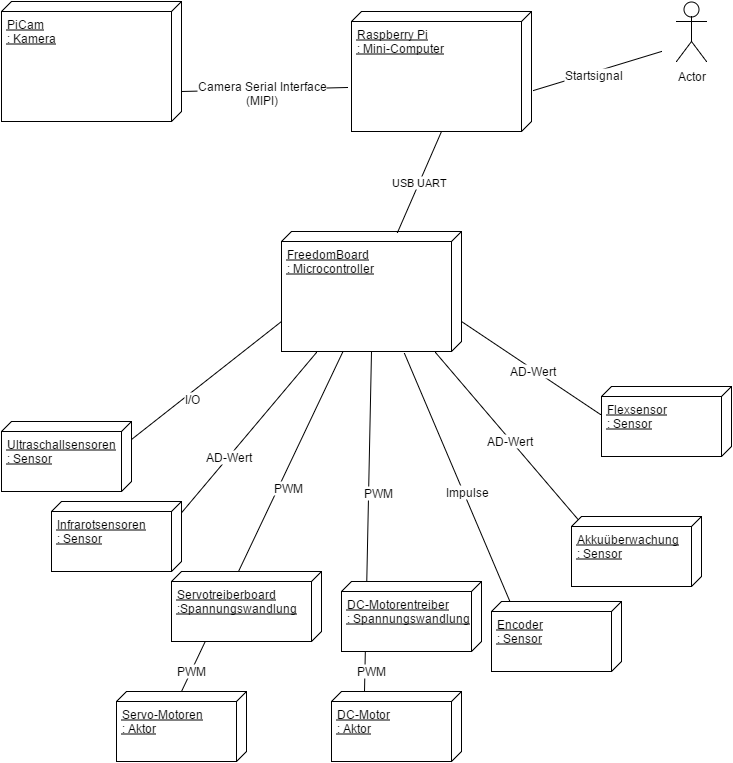
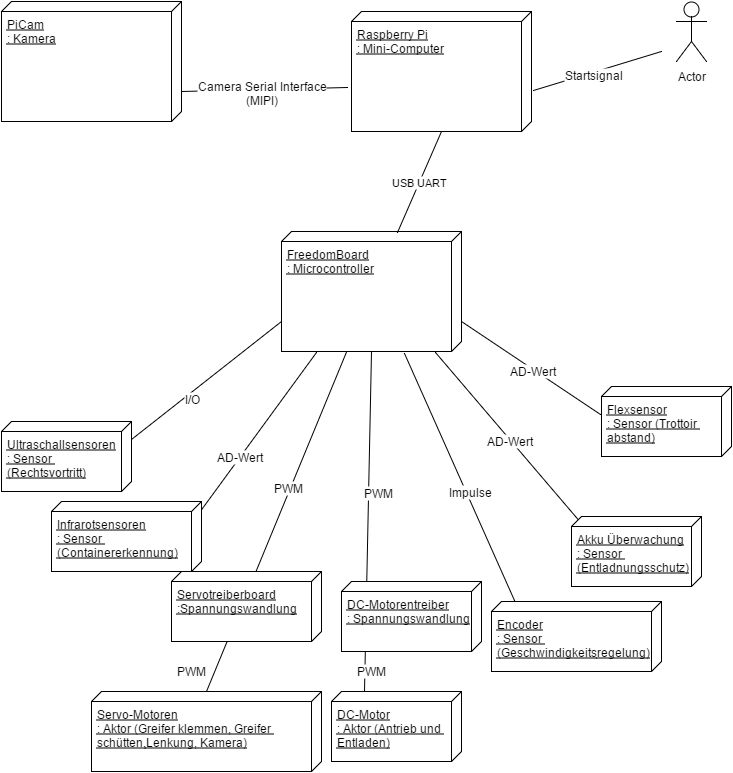
Motoränderung: Verteilungsdiagramm angepasst Satz verbessert regelung

diff --git a/documentation/GesamtDoku/03_Loesungskonzept/gesamtuebersicht.tex b/documentation/GesamtDoku/03_Loesungskonzept/gesamtuebersicht.tex
@@ -26,7 +26,7 @@ Damit das Fahrzeug mit einer konstanten Geschwindigkeit fahren kann, muss ein Re
 	\caption{Grober Antriebsregelkreis}
 \end{figure}\flushleft
 %In Abbildung \ref{Regelung_Gesch} 
-Hier ist der grobe Regelkreis des Antriebs zu sehen. Der Sollwert wird vom Minicomputer vorgegeben und an das Mikrocontrollerboard weitergeleitet. In diesem wird dann die Regelung implementiert. Der Regelausgang ist ein PWM\footnote{PWM= Pulsweiten Moduliertes Signal} Signal, welches die Geschwindigkeit des Antriebsmotors bestimmt. Die Drehzahl des Antriebes wird über einen Encoder an der Antriebswelle zurück gelesen.\\[0.2cm]
+Hier ist der grobe Regelkreis des Antriebs zu sehen. Der Sollwert wird vom Minicomputer vorgegeben und an das Mikrocontrollerboard weitergeleitet. In diesem wird dann die Regelung implementiert. Der Regelausgang ist ein PWM\footnote{PWM= Pulsweiten Moduliertes Signal} Signal, welches die Geschwindigkeit des Antriebsmotors bestimmt. Die Drehzahl des Antriebmotors wird über einen Encoder zurück in den Mikrocontroller gelesen. Der Encoder misst die Drehzahl am Ausgang des DC-Antriebsmotors.\\[0.2cm]
 \underline{\textbf{Lenkregelung}}\\[0.2cm]
 Damit des Fahrzeug auf der Strecke bleiben kann, braucht es einen Regelkreis für die Steuerung. Der grobe Regelkreis ist hier aufgezeigt.
 \begin{figure}[H]
